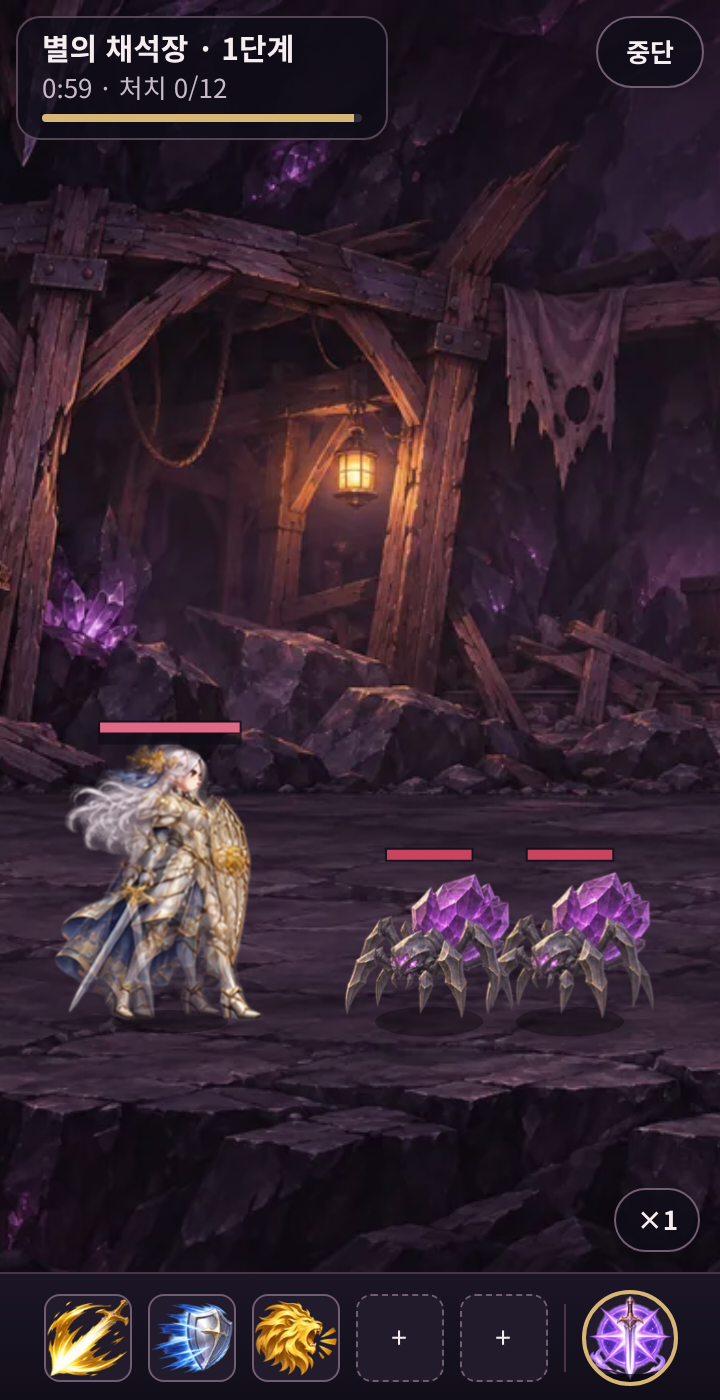
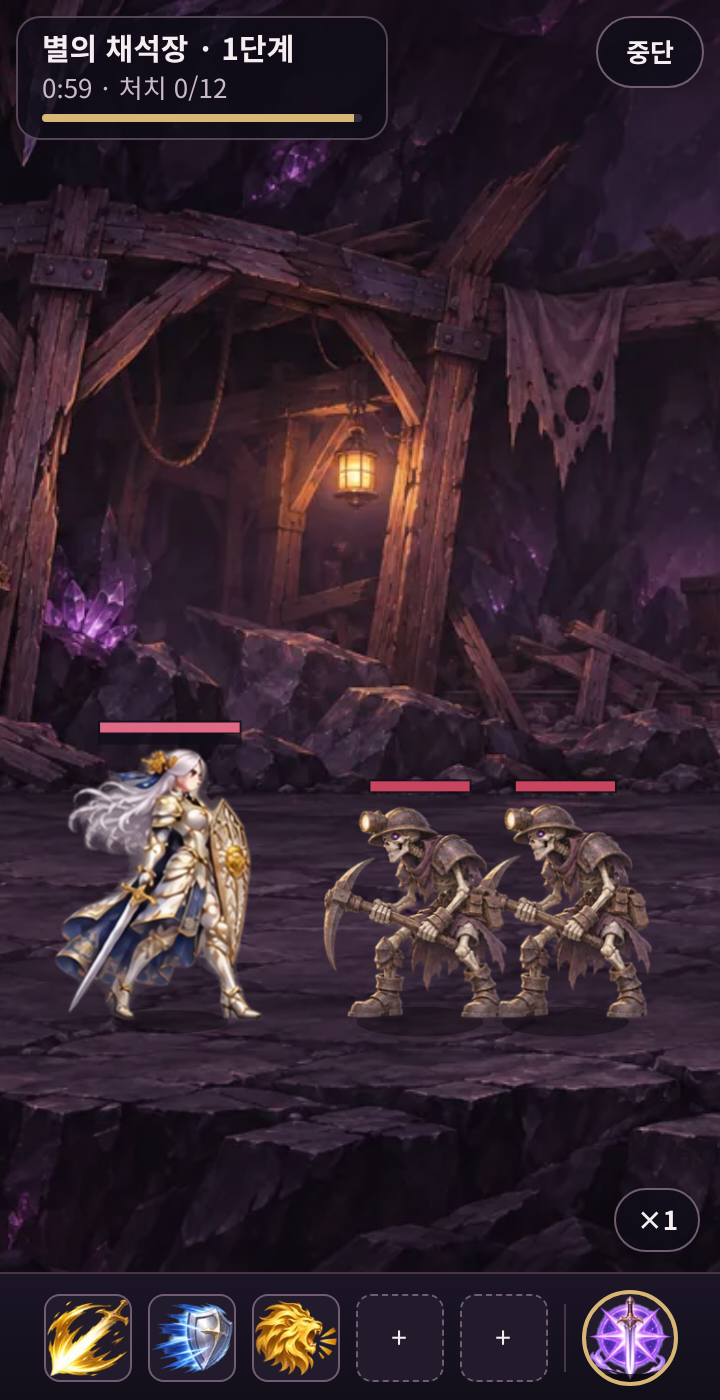
docs: J3 세린 반영
Claude-Session: https://claude.ai/code/session_01U4aB6EAc9QsejWystJKhx1

Changed region(s): [[0.4278, 0.5529, 0.9167, 0.7371], [0.0917, 0.5221, 0.3361, 0.7371]]

diff --git a/docs/KNOWN_ISSUES.md b/docs/KNOWN_ISSUES.md
@@ -56,7 +56,7 @@
 광고·결제, 서버 계정, 랭킹, 캐릭터 가챠·호감도(만들지 않음).
 
 ## v4 그림 적용 (2부)
-- 승급 외형 24종(8 키 포즈)과 몬스터·보스(4동작)는 GPT A~D로 바뀌었습니다. 키 포즈 전환이며 연속 프레임은 리라·엘레나·녹스 기본형의 걷기·기본 공격(GPT J3 형식, 2026-11-07)만 있습니다.
+- 승급 외형 24종(8 키 포즈)과 몬스터·보스(4동작)는 GPT A~D로 바뀌었습니다. 키 포즈 전환이며 연속 프레임은 세린·리라·엘레나·녹스 기본형의 걷기·기본 공격(GPT J3, 2026-11-07)만 있습니다.
 - 생성 보드의 평면 배경은 색 거리로 지우고, 어두운 부분이 지워지는 보드는 Higgsfield 배경 제거 결과(`*_alpha.png`)와 합쳐 썼습니다. 연기·불꽃 가장자리는 반투명으로 남습니다.
 - 장갑·장화·반지는 GPT F로 영웅·전설·신화 전용 아이콘을, 투구·갑옷·목걸이는 GPT J1로 고등급 아이콘을 씁니다.
 - `tools/browser_qa.cjs`의 QA용 상태 변경은 정기 저장이 진행 중이면 잠시 뒤 다시 시도합니다. 보스·레이드 '포기'를 정기 저장 도중 누르면 결과 저장이 그 저장과 겹쳐 '다른 탭' 화면이 뜨던 문제를 고쳤습니다(저장이 끝난 뒤 포기 처리).
@@ -129,7 +129,7 @@
 - 지도 노드는 누르면 선택 → "여기서 사냥" 버튼으로 이동합니다(한 번 누름 이동 아님).
 
 ## 그림 요청 현황 (2026-11-07 기준)
-- GPT 요청서 A~I, J1·J2 적용 완료. 연속 프레임(J3 형식)은 리라·엘레나·녹스 기본형 걷기·기본 공격만. 세린·승급 외형·몬스터는 키 포즈 전환입니다.
+- GPT 요청서 A~I, J1·J2 적용 완료. 연속 프레임(J3)은 4클래스 기본형 걷기·기본 공격만. 승급 외형·몬스터·보스는 키 포즈 전환입니다.
 - 남은 선택 요청: K(v8 콘텐츠 아이콘). 지금은 기존 아이콘을 빌려 씁니다(아래 v8).
 
 ## v8 콘텐츠 (2026-11-07, `docs/DESIGN_V8.md`)
